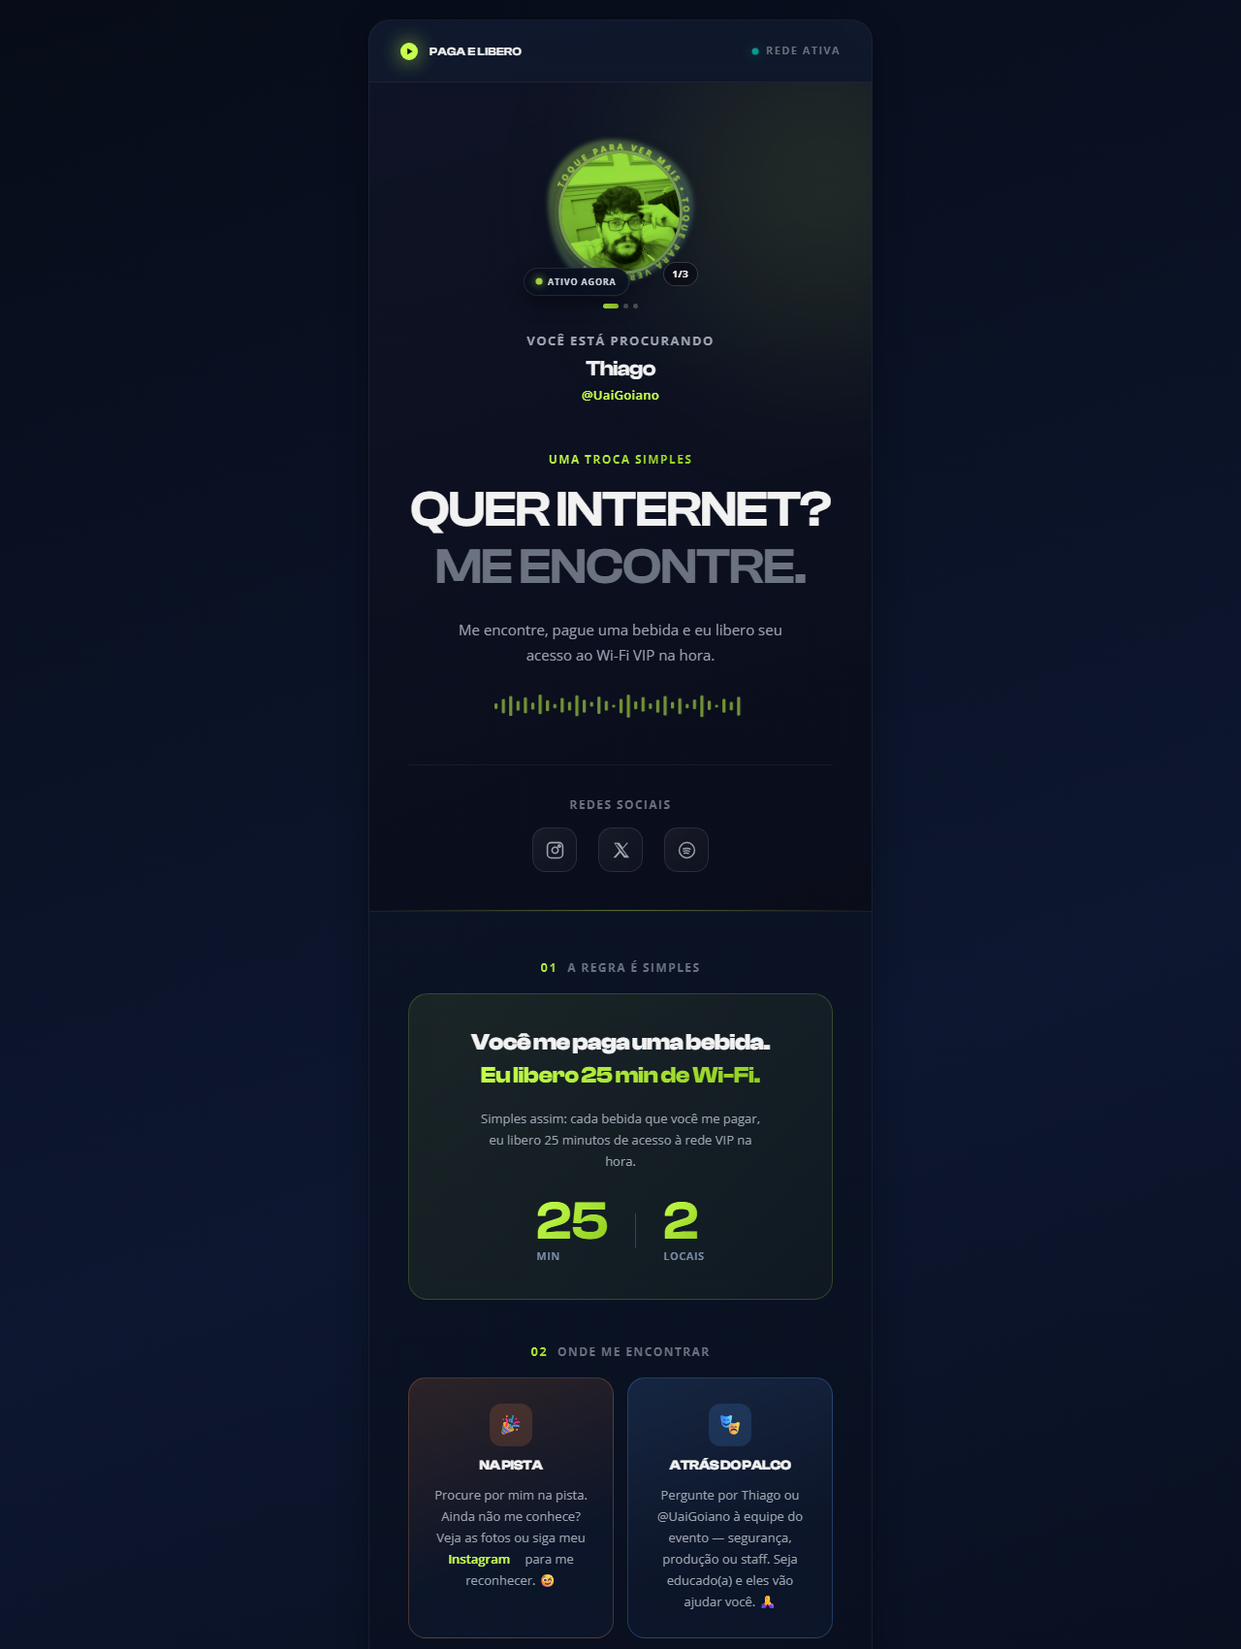
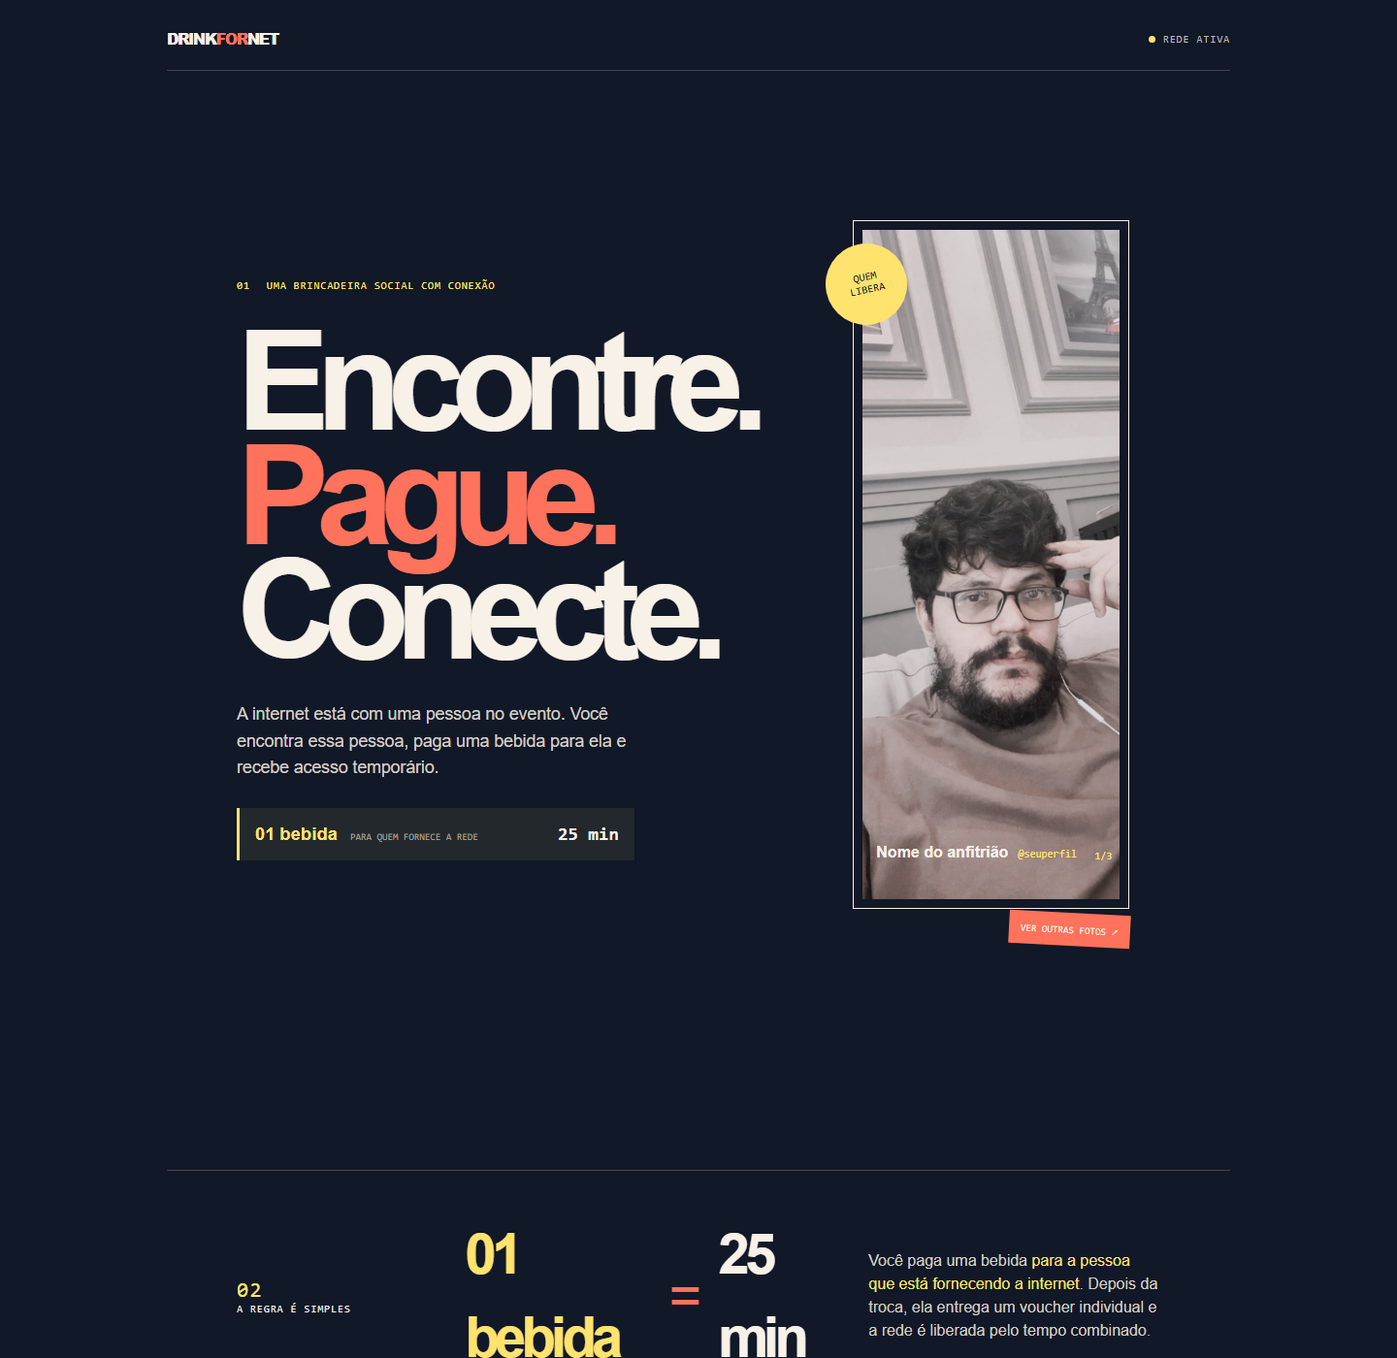
Update visual previews and demo links

diff --git a/style.css b/style.css
@@ -1,3 +1,5 @@
 :root{--night:#111827;--cream:#f7f1e8;--pink:#ff725c;--yellow:#ffe36e;--blue:#a9d8ff;--muted:#aaa49b;--line:rgba(247,241,232,.22)}
-*{box-sizing:border-box}html{background:var(--night)}body{margin:0;background:var(--night);color:var(--cream);font-family:Arial,"Segoe UI",sans-serif;line-height:1.5;-webkit-font-smoothing:antialiased}.shell{max-width:1240px;margin:auto;padding:28px 5vw 30px}.topbar{display:flex;justify-content:space-between;align-items:center;border-bottom:1px solid var(--line);padding-bottom:20px}.logo{color:var(--cream);text-decoration:none;font-weight:800;letter-spacing:-.09em}.logo span{color:var(--pink)}.network-status,.kicker,.section-head span,.voucher-intro>span,footer,.social-links a,.rule-label,.voucher form label,.voucher form small,.voucher-state{font:11px Consolas,"Courier New",monospace;letter-spacing:.08em;text-transform:uppercase}.network-status{color:#b8b5b0}.network-status i{display:inline-block;width:7px;height:7px;background:var(--yellow);border-radius:50%;margin-right:8px}.hero{display:grid;grid-template-columns:1.1fr .9fr;gap:7vw;align-items:center;padding:11vh 5vw 12vh}.kicker{color:var(--yellow)}.kicker span{margin-right:10px}h1{font-size:clamp(4rem,10vw,9rem);line-height:.82;letter-spacing:-.1em;margin:34px 0}.hero h1 span,h2 em{color:var(--pink);font-style:normal}.hero-description{max-width:420px;font-size:1.1rem;line-height:1.55;color:#d4cec4}.quick-rule{display:flex;align-items:baseline;gap:13px;max-width:410px;border-left:3px solid var(--yellow);margin-top:28px;padding:13px 16px;background:rgba(255,227,110,.08)}.quick-rule .drink-rule{color:var(--yellow);font-size:1.15rem}.quick-rule span{color:var(--muted);font:10px Consolas,monospace;text-transform:uppercase}.quick-rule .access-rule{margin-left:auto;color:var(--cream);font:700 1.2rem Consolas,monospace}.portrait{position:relative;max-width:390px;justify-self:end}.portrait-button{display:block;width:100%;padding:9px;border:1px solid var(--cream);background:transparent;cursor:pointer}.portrait-button img{display:block;width:100%;aspect-ratio:3/4;object-fit:cover;filter:grayscale(.5)}.portrait-tag{position:absolute;z-index:1;top:24px;left:-28px;width:84px;height:84px;display:grid;place-content:center;background:var(--yellow);color:var(--night);border-radius:50%;font:11px Consolas,monospace;line-height:1.15;text-align:center;transform:rotate(-12deg)}.nameplate{position:absolute;bottom:46px;left:24px;display:flex;gap:10px;align-items:baseline}.nameplate strong{color:var(--cream)}.nameplate .profile-nickname{font:11px Consolas,monospace;color:var(--yellow)}.photo-counter{position:absolute;right:18px;bottom:48px;color:var(--yellow);font:11px Consolas,monospace}.gallery-trigger{position:absolute;right:0;bottom:-38px;border:0;padding:10px 12px;color:var(--cream);background:var(--pink);font:10px Consolas,monospace;text-transform:uppercase;cursor:pointer;transform:rotate(3deg)}.social-links{display:flex;gap:9px;grid-column:2;justify-content:flex-end;margin-top:-5vw}.social-links a{display:flex;align-items:center;gap:7px;border:1px solid var(--line);padding:8px 10px;color:var(--cream);text-decoration:none}.social-links a:hover,.social-links a:focus-visible{border-color:var(--yellow);color:var(--yellow)}.social-links svg{width:14px;height:14px;fill:none;stroke:currentColor;stroke-width:1.6}.social-links svg path{stroke-linecap:round}.rule{display:grid;grid-template-columns:.7fr 1.3fr 1fr;gap:25px;align-items:center;border-top:1px solid var(--line);border-bottom:1px solid var(--line);padding:43px 5vw}.rule-label span{color:var(--yellow);font-size:1.4rem}.rule-main{display:flex;align-items:center;gap:22px;font-size:clamp(2rem,4vw,4rem);letter-spacing:-.08em}.rule-main .drink-rule{color:var(--yellow)}.rule-main>span{color:var(--pink)}.rule p{line-height:1.5;color:#d4cec4;margin:0}.rule p em{color:var(--yellow);font-style:normal}.how-it-works,.find{padding:10vh 5vw}.section-head{display:flex;justify-content:space-between;align-items:baseline;border-bottom:1px solid var(--line);padding-bottom:18px}.section-head span,.voucher-intro>span{color:var(--yellow)}h2{font-size:clamp(3rem,6vw,6rem);line-height:.85;letter-spacing:-.1em;margin:28px 0}.steps{display:grid;grid-template-columns:repeat(4,1fr);gap:1px;margin-top:30px;background:var(--line)}.steps article{min-height:190px;padding:20px;background:var(--night)}.steps article:nth-child(2){background:#172337}.steps article:nth-child(3){background:#1d2a3f}.steps article:nth-child(4){background:#263145}.steps b,.place-number{color:var(--yellow);font:11px Consolas,monospace}.steps h3{font-size:1.5rem;letter-spacing:-.06em;margin:45px 0 10px}.steps p{color:#b9b3aa;line-height:1.4;font-size:.9rem}.find-intro{max-width:570px;color:var(--muted);line-height:1.5;margin:22px 0 30px}.places{display:grid;grid-template-columns:1fr 1fr;gap:14px}.place{display:grid;grid-template-columns:50px 1fr 30px;gap:14px;min-height:230px;padding:24px;background:var(--cream);color:var(--night)}.place-alt{background:var(--blue)}.place h3{font-size:2.4rem;letter-spacing:-.09em;margin:48px 0 14px}.place p{max-width:300px;line-height:1.45}.place>b{font-size:1.8rem;justify-self:end}.voucher{display:grid;grid-template-columns:1fr 1fr;gap:8vw;align-items:end;background:var(--pink);color:var(--night);padding:9vh 5vw}.voucher h2 em{color:var(--cream)}.voucher-intro p{max-width:380px;line-height:1.5}.voucher form{background:var(--cream);padding:28px;box-shadow:9px 9px 0 var(--night)}.voucher form label{display:block;margin-bottom:12px}.voucher form input{width:100%;border:0;border-bottom:2px solid var(--night);background:transparent;padding:12px 0;color:var(--night);font:1.3rem Consolas,monospace;outline:0}.voucher form input:focus{border-color:var(--pink)}.voucher form button{display:block;width:100%;border:0;background:var(--night);color:var(--cream);padding:17px;margin:25px 0 14px;font:12px Consolas,monospace;text-align:left;cursor:pointer}.voucher form button:hover,.voucher form button:focus-visible{background:#263145}.voucher form button span{float:right;color:var(--yellow)}.voucher form small{color:#5f594f}.voucher-state{min-height:16px;margin:12px 0 0;color:#b64a3b}.voucher-state.is-ready{color:#3b7e4d}footer{display:flex;justify-content:space-between;color:#8c8b87;padding-top:32px}.gallery{position:fixed;z-index:10;inset:0;display:none;place-items:center;padding:24px}.gallery.is-open{display:grid}.gallery-backdrop{position:absolute;inset:0;background:rgba(10,15,25,.88)}.gallery-panel{position:relative;z-index:1;width:min(560px,100%);padding:32px;background:var(--cream);color:var(--night);box-shadow:12px 12px 0 var(--yellow)}.gallery-panel h2{margin:18px 0 22px}.gallery-close{position:absolute;right:15px;top:15px;border:0;padding:4px 10px;background:transparent;color:var(--night);font-size:1.8rem;cursor:pointer}.gallery-close:hover,.gallery-close:focus-visible{background:var(--pink)}.gallery-image{display:block;width:100%;max-height:60vh;object-fit:cover}.gallery-controls{display:flex;justify-content:space-between;align-items:center;margin-top:14px;font:11px Consolas,monospace}.gallery-controls button{border:0;background:var(--night);color:var(--cream);padding:10px 14px;cursor:pointer}.gallery-dots{display:flex;justify-content:center;gap:8px;margin-top:16px}.gallery-dot{width:9px;height:9px;border:1px solid var(--night);border-radius:50%;background:transparent;cursor:pointer}.gallery-dot.is-active{background:var(--pink)}.gallery-open{overflow:hidden}:focus-visible{outline:2px solid var(--yellow);outline-offset:3px}@media(max-width:700px){.shell{padding:20px 20px 26px}.network-status{display:none}.hero{display:flex;flex-direction:column;align-items:stretch;gap:48px;padding:9vh 0 10vh}.portrait{width:82%;align-self:center}.portrait-tag{left:-16px}h1{font-size:clamp(4.2rem,20vw,7rem)}.hero-description{font-size:1rem}.quick-rule{align-items:flex-start;flex-wrap:wrap;gap:7px 10px}.quick-rule .access-rule{margin-left:0;flex-basis:100%}.social-links{justify-content:flex-start;flex-wrap:wrap;margin-top:0}.rule,.voucher{grid-template-columns:1fr;gap:28px;padding:48px 24px;margin:0 -20px}.rule-main{justify-content:space-between;font-size:2.5rem}.places{grid-template-columns:1fr}.place{min-height:190px}.place h3{margin-top:35px}.how-it-works,.find{padding:9vh 0}.steps{grid-template-columns:1fr 1fr}.steps article{min-height:160px}.steps h3{margin-top:30px;font-size:1.3rem}.voucher form{box-shadow:7px 7px 0 var(--night)}footer{gap:18px;flex-direction:column}.gallery-panel{padding:24px 18px}.gallery-image{max-height:58vh}}
+*{box-sizing:border-box}html{background:var(--night)}body{margin:0;overflow-x:hidden;background:var(--night);color:var(--cream);font-family:Arial,"Segoe UI",sans-serif;line-height:1.5;-webkit-font-smoothing:antialiased}.shell{max-width:1240px;margin:auto;padding:28px 5vw 30px}.topbar{display:flex;justify-content:space-between;align-items:center;border-bottom:1px solid var(--line);padding-bottom:20px}.logo{color:var(--cream);text-decoration:none;font-weight:800;letter-spacing:-.09em}.logo span{color:var(--pink)}.network-status,.kicker,.section-head span,.voucher-intro>span,footer,.social-links a,.rule-label,.voucher form label,.voucher form small,.voucher-state{font:11px Consolas,"Courier New",monospace;letter-spacing:.08em;text-transform:uppercase}.network-status{color:#b8b5b0}.network-status i{display:inline-block;width:7px;height:7px;background:var(--yellow);border-radius:50%;margin-right:8px}.hero{display:grid;grid-template-columns:1.1fr .9fr;gap:7vw;align-items:center;padding:11vh 5vw 12vh}.kicker{color:var(--yellow)}.kicker span{margin-right:10px}h1{font-size:clamp(4rem,10vw,9rem);line-height:.82;letter-spacing:-.1em;margin:34px 0}.hero h1 span,h2 em{color:var(--pink);font-style:normal}.hero-description{width:100%;max-width:420px;min-width:0;overflow-wrap:break-word;font-size:1.1rem;line-height:1.55;color:#d4cec4}.quick-rule{display:flex;align-items:baseline;gap:13px;max-width:410px;border-left:3px solid var(--yellow);margin-top:28px;padding:13px 16px;background:rgba(255,227,110,.08)}.quick-rule .drink-rule{color:var(--yellow);font-size:1.15rem}.quick-rule span{color:var(--muted);font:10px Consolas,monospace;text-transform:uppercase}.quick-rule .access-rule{margin-left:auto;color:var(--cream);font:700 1.2rem Consolas,monospace}.portrait{position:relative;max-width:390px;justify-self:end}.portrait-button{display:block;width:100%;padding:9px;border:1px solid var(--cream);background:transparent;cursor:pointer}.portrait-button img{display:block;width:100%;aspect-ratio:3/4;object-fit:cover;filter:grayscale(.5)}.portrait-tag{position:absolute;z-index:1;top:24px;left:-28px;width:84px;height:84px;display:grid;place-content:center;background:var(--yellow);color:var(--night);border-radius:50%;font:11px Consolas,monospace;line-height:1.15;text-align:center;transform:rotate(-12deg)}.nameplate{position:absolute;bottom:46px;left:24px;display:flex;gap:10px;align-items:baseline}.nameplate strong{color:var(--cream)}.nameplate .profile-nickname{font:11px Consolas,monospace;color:var(--yellow)}.photo-counter{position:absolute;right:18px;bottom:48px;color:var(--yellow);font:11px Consolas,monospace}.gallery-trigger{position:absolute;right:0;bottom:-38px;border:0;padding:10px 12px;color:var(--cream);background:var(--pink);font:10px Consolas,monospace;text-transform:uppercase;cursor:pointer;transform:rotate(3deg)}.social-links{display:flex;gap:9px;grid-column:2;justify-content:flex-end;margin-top:-5vw}.social-links a{display:flex;align-items:center;gap:7px;border:1px solid var(--line);padding:8px 10px;color:var(--cream);text-decoration:none}.social-links a:hover,.social-links a:focus-visible{border-color:var(--yellow);color:var(--yellow)}.social-links svg{width:14px;height:14px;fill:none;stroke:currentColor;stroke-width:1.6}.social-links svg path{stroke-linecap:round}.rule{display:grid;grid-template-columns:.7fr 1.3fr 1fr;gap:25px;align-items:center;border-top:1px solid var(--line);border-bottom:1px solid var(--line);padding:43px 5vw}.rule-label span{color:var(--yellow);font-size:1.4rem}.rule-main{display:flex;align-items:center;gap:22px;font-size:clamp(2rem,4vw,4rem);letter-spacing:-.08em}.rule-main .drink-rule{color:var(--yellow)}.rule-main>span{color:var(--pink)}.rule p{line-height:1.5;color:#d4cec4;margin:0}.rule p em{color:var(--yellow);font-style:normal}.how-it-works,.find{padding:10vh 5vw}.section-head{display:flex;justify-content:space-between;align-items:baseline;border-bottom:1px solid var(--line);padding-bottom:18px}.section-head span,.voucher-intro>span{color:var(--yellow)}h2{font-size:clamp(3rem,6vw,6rem);line-height:.85;letter-spacing:-.1em;margin:28px 0}.steps{display:grid;grid-template-columns:repeat(4,1fr);gap:1px;margin-top:30px;background:var(--line)}.steps article{min-height:190px;padding:20px;background:var(--night)}.steps article:nth-child(2){background:#172337}.steps article:nth-child(3){background:#1d2a3f}.steps article:nth-child(4){background:#263145}.steps b,.place-number{color:var(--yellow);font:11px Consolas,monospace}.steps h3{font-size:1.5rem;letter-spacing:-.06em;margin:45px 0 10px}.steps p{color:#b9b3aa;line-height:1.4;font-size:.9rem}.find-intro{max-width:570px;color:var(--muted);line-height:1.5;margin:22px 0 30px}.places{display:grid;grid-template-columns:1fr 1fr;gap:14px}.place{display:grid;grid-template-columns:50px 1fr 30px;gap:14px;min-height:230px;padding:24px;background:var(--cream);color:var(--night)}.place-alt{background:var(--blue)}.place h3{font-size:2.4rem;letter-spacing:-.09em;margin:48px 0 14px}.place p{max-width:300px;line-height:1.45}.place>b{font-size:1.8rem;justify-self:end}.voucher{display:grid;grid-template-columns:1fr 1fr;gap:8vw;align-items:end;background:var(--pink);color:var(--night);padding:9vh 5vw}.voucher h2 em{color:var(--cream)}.voucher-intro p{max-width:380px;line-height:1.5}.voucher form{background:var(--cream);padding:28px;box-shadow:9px 9px 0 var(--night)}.voucher form label{display:block;margin-bottom:12px}.voucher form input{width:100%;border:0;border-bottom:2px solid var(--night);background:transparent;padding:12px 0;color:var(--night);font:1.3rem Consolas,monospace;outline:0}.voucher form input:focus{border-color:var(--pink)}.voucher form button{display:block;width:100%;border:0;background:var(--night);color:var(--cream);padding:17px;margin:25px 0 14px;font:12px Consolas,monospace;text-align:left;cursor:pointer}.voucher form button:hover,.voucher form button:focus-visible{background:#263145}.voucher form button span{float:right;color:var(--yellow)}.voucher form small{color:#5f594f}.voucher-state{min-height:16px;margin:12px 0 0;color:#b64a3b}.voucher-state.is-ready{color:#3b7e4d}footer{display:flex;justify-content:space-between;color:#8c8b87;padding-top:32px}.gallery{position:fixed;z-index:10;inset:0;display:none;place-items:center;padding:24px}.gallery.is-open{display:grid}.gallery-backdrop{position:absolute;inset:0;background:rgba(10,15,25,.88)}.gallery-panel{position:relative;z-index:1;width:min(560px,100%);padding:32px;background:var(--cream);color:var(--night);box-shadow:12px 12px 0 var(--yellow)}.gallery-panel h2{margin:18px 0 22px}.gallery-close{position:absolute;right:15px;top:15px;border:0;padding:4px 10px;background:transparent;color:var(--night);font-size:1.8rem;cursor:pointer}.gallery-close:hover,.gallery-close:focus-visible{background:var(--pink)}.gallery-image{display:block;width:100%;max-height:60vh;object-fit:cover}.gallery-controls{display:flex;justify-content:space-between;align-items:center;margin-top:14px;font:11px Consolas,monospace}.gallery-controls button{border:0;background:var(--night);color:var(--cream);padding:10px 14px;cursor:pointer}.gallery-dots{display:flex;justify-content:center;gap:8px;margin-top:16px}.gallery-dot{width:9px;height:9px;border:1px solid var(--night);border-radius:50%;background:transparent;cursor:pointer}.gallery-dot.is-active{background:var(--pink)}.gallery-open{overflow:hidden}:focus-visible{outline:2px solid var(--yellow);outline-offset:3px}@media(max-width:700px){.shell{padding:20px 20px 26px}.network-status{display:none}.hero{display:flex;flex-direction:column;align-items:stretch;gap:48px;padding:9vh 0 10vh}.portrait{width:82%;align-self:center}.portrait-tag{left:-16px}h1{font-size:clamp(3.8rem,17vw,7rem)}.hero-description{font-size:1rem}.quick-rule{align-items:flex-start;flex-wrap:wrap;gap:7px 10px}.quick-rule .access-rule{margin-left:0;flex-basis:100%}.social-links{justify-content:flex-start;flex-wrap:wrap;margin-top:0}.rule,.voucher{grid-template-columns:1fr;gap:28px;padding:48px 24px;margin:0 -20px}.rule-main{justify-content:space-between;font-size:2.5rem}.places{grid-template-columns:1fr}.place{min-height:190px}.place h3{margin-top:35px}.how-it-works,.find{padding:9vh 0}.steps{grid-template-columns:1fr 1fr}.steps article{min-height:160px}.steps h3{margin-top:30px;font-size:1.3rem}.voucher form{box-shadow:7px 7px 0 var(--night)}footer{gap:18px;flex-direction:column}.gallery-panel{padding:24px 18px}.gallery-image{max-height:58vh}}
 @media(prefers-reduced-motion:reduce){*{scroll-behavior:auto!important;transition:none!important}}
+@media(max-width:700px){.hero,.hero-text{min-width:0}.hero-description{max-width:100%;width:100%;white-space:normal;overflow-wrap:anywhere}}
+@media(max-width:700px){.hero-description{width:calc(100vw - 40px)!important;max-width:calc(100vw - 40px)!important}}

diff --git a/README.md b/README.md
@@ -14,6 +14,8 @@
 
 Use o link acima para visualizar a experiência do visitante em um celular, tablet ou computador. Esta é uma demonstração visual; a emissão e a validação de vouchers continuam dependendo do captive portal configurado no roteador.
 
+> **Modelo B em revisão:** a nova interface responsiva está disponível na [Pull Request #2](https://github.com/uaigoiano-max/DrinkForNetWifi/pull/2). Depois do merge, o link acima passa a abrir automaticamente essa versão no GitHub Pages.
+
 ### 🧭 Navegação rápida
 
 - [A ideia e a dinâmica social](#wi-fi-vip-para-quem-sabe-onde-encontrar-a-conexão)
@@ -50,7 +52,7 @@ O projeto combina **design de produto, infraestrutura portátil, captive portal 
 
 ## 👀 Veja a experiência antes de instalar
 
-A landing page foi desenhada para funcionar como uma interface de evento: uma pessoa conecta ao Wi-Fi, reconhece quem está disponibilizando a rede, entende a dinâmica em poucos segundos e chega ao campo de voucher sem precisar navegar por menus complexos.
+A landing page foi desenhada como uma interface de evento: uma pessoa conecta ao Wi-Fi, reconhece quem está disponibilizando a rede, entende que **uma bebida para quem fornece a rede libera 25 minutos**, encontra essa pessoa na pista ou no backstage e chega ao campo de voucher sem navegar por menus complexos.
 
 ### Visão desktop
 
@@ -72,24 +74,29 @@ Para colocar uma cópia no ar rapidamente, siga o [Quickstart](QUICKSTART.md). A
 
 ```text
 ┌─────────────────────────────────────┐
-│ PAGA E LIBERO          REDE ATIVA   │
+│ DRINKFORNET            REDE ATIVA   │
 │                                     │
 │          [foto do anfitrião]        │
 │          [nome da pessoa]           │
 │          [@perfil social]           │
 │                                     │
-│       QUER INTERNET?                │
-│         ME ENCONTRE.                │
+│  ENCONTRE. PAGUE. CONECTE.           │
+│  01 bebida para quem fornece        │
+│  a rede = 25 minutos                │
 │                                     │
 │       [redes sociais]               │
 ├─────────────────────────────────────┤
 │ 01  A REGRA É SIMPLES              │
 │     1 bebida = 25 min de Wi-Fi     │
 │                                     │
-│ 02  ONDE ENCONTRAR                 │
-│     Ponto combinado                 │
+│ 02  COMO FUNCIONA                  │
+│     Encontre · Pague · Receba      │
+│     Conecte                         │
 │                                     │
-│ 03  ACESSAR REDE                  │
+│ 03  ONDE ENCONTRAR                 │
+│     Na pista ou no backstage       │
+│                                     │
+│ 04  ACESSAR REDE                  │
 │     [ CÓDIGO DE ACESSO ]           │
 │     [ LIBERAR WI-FI           → ]  │
 └─────────────────────────────────────┘

diff --git a/README.en.md b/README.en.md
@@ -14,11 +14,13 @@
 
 The demo shows the visitor experience on desktop and mobile. Voucher creation, authentication and session expiration still depend on the captive portal configured on the router.
 
+> **Model B under review:** the new responsive interface is available in [Pull Request #2](https://github.com/uaigoiano-max/DrinkForNetWifi/pull/2). After the pull request is merged, the link above will automatically show this version on GitHub Pages.
+
 > **Archived version:** the personalized demonstration used before this repository became a reusable template is preserved in the [`v1.0-personal-template`](https://github.com/uaigoiano-max/DrinkForNetWifi/releases/tag/v1.0-personal-template) release. Use it for reference only; new projects should start from the current version.
 
 ## What is DrinkForNet?
 
-DrinkForNet is a reusable Wi-Fi landing page for a person who wants to bring a portable network to a party, festival or live event. The network does not need to be official or provided by the event organizers: it is made available by someone at the venue who wants to create a fun interaction with other people.
+DrinkForNet is a reusable Wi-Fi landing page for a person who wants to bring a portable network to a party, festival or live event. The network does not need to be official or provided by the event organizers: it is made available by someone at the venue who wants to create a fun interaction with other people. The new interface makes the core exchange explicit: **one drink for the person providing the network unlocks 25 minutes of access**.
 
 Instead of sharing a global password, the host can define a clear and voluntary exchange, such as:
 
